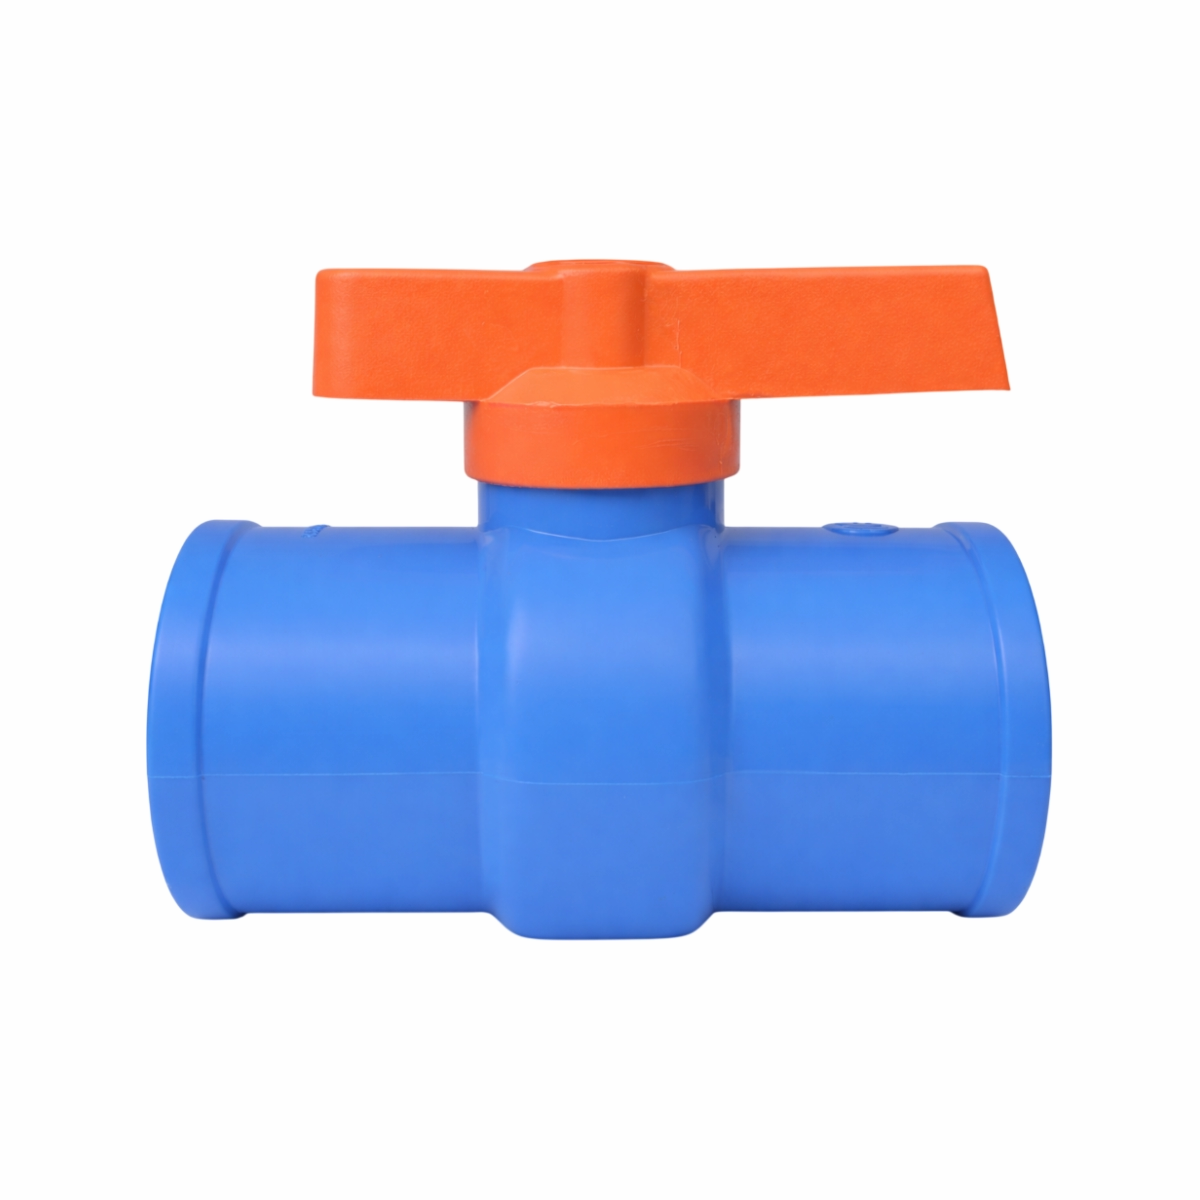
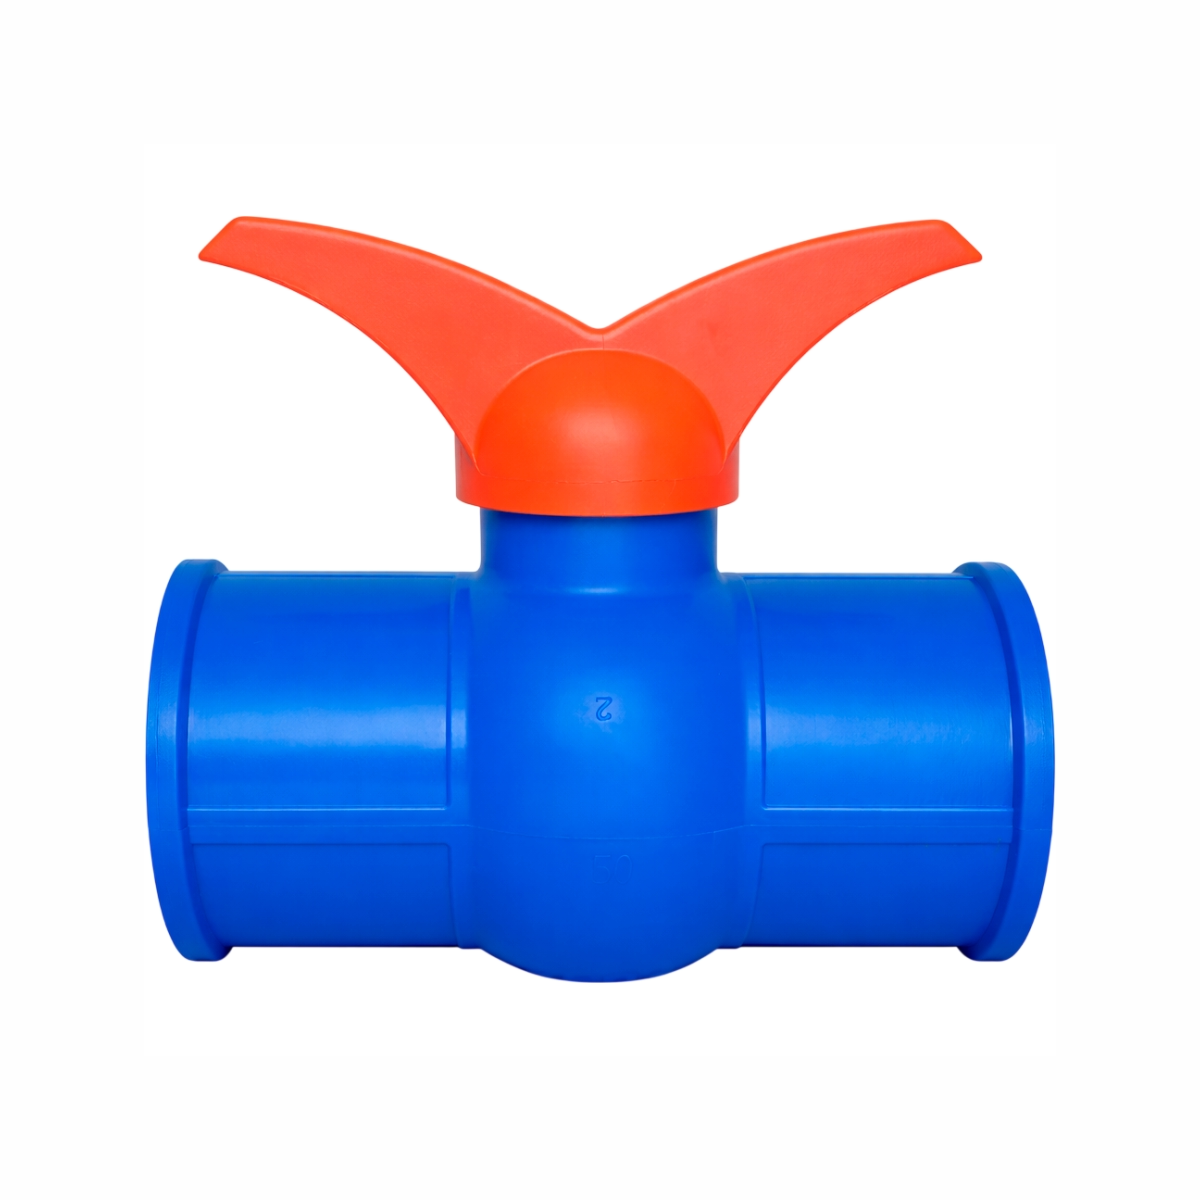
Imagens dos registros PVC atualizadas.

diff --git a/src/pages/CatalogoIrrigacao.jsx b/src/pages/CatalogoIrrigacao.jsx
@@ -48,7 +48,7 @@ const CatalogoIrrigacao = () => {
     {
       id: 5,
       nome: "REGISTRO DE ESFERA ROSCA EXTERNA",
-      imagem: "assets/img/registro-esfera-rosca-externa.png",
+      imagem: "assets/img/registro-esfera-rosca-externa.webp",
       descricao: ["Registro esfera de PVC com rosca externa."],
       especificacoes: ['Material: PVC'],
       tamanhos: ['REG. DE ESFERA ROSCA EXTERNA PVC AZUL 3/4"', 'REG. DE ESFERA ROSCA EXTERNA PVC AZUL 1"'],
@@ -56,7 +56,7 @@ const CatalogoIrrigacao = () => {
     {
       id: 6,
       nome: "REGISTRO DE ESFERA ROSCA INTERNA/EXTERNA",
-      imagem: 'assets/img/registro-esfera-rosca-externa_interna.png',
+      imagem: 'assets/img/registro-esfera-rosca-externa_interna.webp',
       descricao: ["Registro esfera de PVC com rosca interna e externa."],
       especificacoes: ['Material: PVC'],
       tamanhos: ['REG. DE ESFERA PVC AZUL ROSCA INT./EXT. 3/4"'],
@@ -172,7 +172,7 @@ const CatalogoIrrigacao = () => {
     {
       id: 21,
       nome: "REGISTRO DE ESFERA PVC SOLDÁVEL",
-      imagem: "assets/img/registro-pvc-soldavel.webp",
+      imagem: "assets/img/registro-pvc-rosca-interna.webp",
       especificacoes: ['Material: PVC'],
       tamanhos: ['REG. DE ESFERA SOLDA PVC AZUL 25 MM', 'REG. DE ESFERA SOLDA PVC AZUL 32 MM',
                  'REG. DE ESFERA SOLDA PVC AZUL 35 MM', 'REG. DE ESFERA SOLDA PVC AZUL 50.6 MM',
